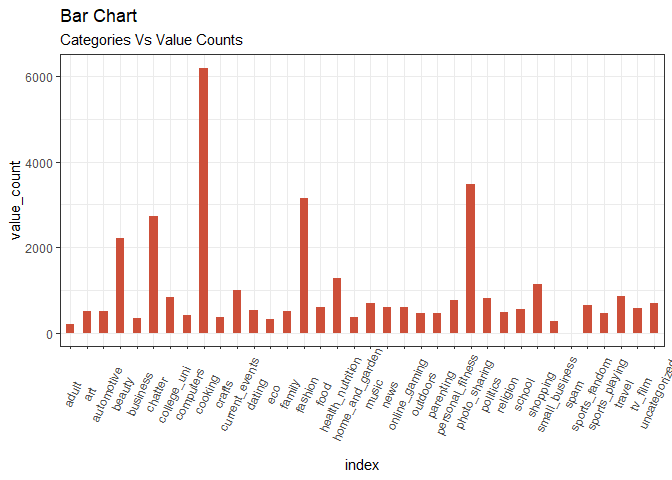
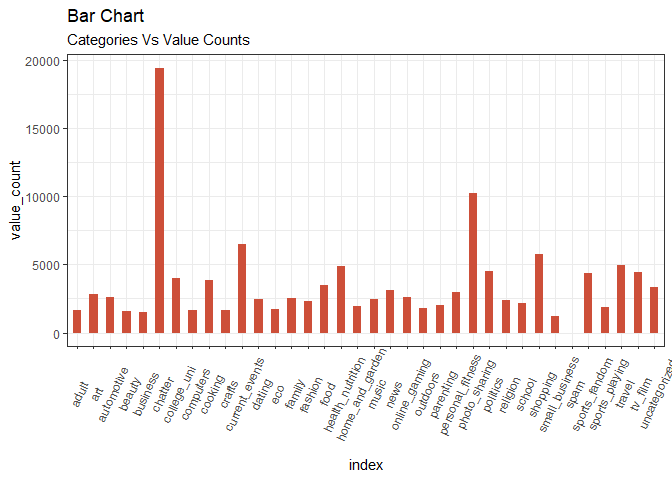
Add files via upload

diff --git a/Market Segmentation/Segmentation-Final.md b/Market Segmentation/Segmentation-Final.md
@@ -250,6 +250,8 @@ SSE_grid = foreach(k = k_grid, .combine='c') %do% {
     ## Warning: did not converge in 10 iterations
     
     ## Warning: did not converge in 10 iterations
+    
+    ## Warning: did not converge in 10 iterations
 
 ``` r
 plot(k_grid, SSE_grid)
@@ -266,151 +268,151 @@ clust1$center  # not super helpful
 ```
 
     ##    current_events      travel photo_sharing      tv_film sports_fandom
-    ## 1     -0.01031450 -0.15714384   -0.08421245 -0.145999378    -0.2017286
-    ## 2     -0.20281680 -0.21908597   -0.42320159 -0.222078934    -0.3229844
-    ## 3      0.36511293 -0.20566843    1.14465223 -0.124894450    -0.2057396
-    ## 4      0.07009668 -0.18841407   -0.20447614 -0.007645991     0.6677047
-    ## 5      0.27684711  0.28872703   -0.09071828 -0.116191009     0.1406567
-    ## 6      0.10842499  3.24061517   -0.11133845 -0.067917014    -0.2121407
-    ## 7      0.18517132 -0.06130126    1.24815395 -0.150639666    -0.2087792
-    ## 8     -0.08291475 -0.04385822   -0.02082668  0.097903233    -0.1261881
-    ## 9      0.10988087 -0.09813918   -0.08116542 -0.095409247     2.0782988
-    ## 10     0.30439005  0.22751673   -0.05831114  2.795550927    -0.1221757
+    ## 1      0.37082201 -0.20874717    1.16393164 -0.126745905    -0.2101211
+    ## 2     -0.08106613 -0.04267660   -0.01646228  0.095326209    -0.1266487
+    ## 3      0.30490339  0.22608904   -0.05886756  2.780408584    -0.1152744
+    ## 4      0.10695128  3.23569564   -0.11277465 -0.067845058    -0.2136210
+    ## 5      0.10988087 -0.09813918   -0.08116542 -0.095409247     2.0782988
+    ## 6      0.18073936 -0.06258883    1.25478537 -0.154102573    -0.2051438
+    ## 7      0.07009668 -0.18841407   -0.20447614 -0.007645991     0.6677047
+    ## 8     -0.20084867 -0.21888279   -0.42083617 -0.220995123    -0.3224679
+    ## 9     -0.01082130 -0.15671938   -0.08396781 -0.145869520    -0.2012404
+    ## 10     0.27684711  0.28872703   -0.09071828 -0.116191009     0.1406567
     ##       politics        food      family home_and_garden         music
-    ## 1  -0.19850173  0.44533501 -0.07921331      0.14309636  0.0007582097
-    ## 2  -0.30075489 -0.36324183 -0.30444967     -0.20310521 -0.2341819374
-    ## 3  -0.15331111 -0.30920044 -0.05048685      0.14284720  0.1581977664
-    ## 4   1.21986287 -0.16546991  0.23209424      0.15020726 -0.0868021246
-    ## 5   0.15052740  0.04049422 -0.05999555      0.23510191  0.0141826414
-    ## 6   3.09299191  0.15319335 -0.10178647      0.04861894 -0.0424032763
-    ## 7  -0.12821438 -0.20892445  0.03370569      0.14091353  0.5432022033
-    ## 8  -0.17701573 -0.09437659  0.19602068      0.06781279 -0.0463005729
-    ## 9  -0.22631717  1.84148800  1.51713078      0.16499274  0.0437575815
-    ## 10 -0.08944974  0.14221566 -0.12482059      0.32825144  1.0176851981
+    ## 1  -0.15514307 -0.31111498 -0.04676972      0.15320798  1.360905e-01
+    ## 2  -0.17563345 -0.09679282  0.20136205      0.06834696 -4.558890e-02
+    ## 3  -0.08990204  0.13949048 -0.12518758      0.32054648  1.038927e+00
+    ## 4   3.08819300  0.15371770 -0.10116116      0.04649105 -4.414151e-02
+    ## 5  -0.22631717  1.84148800  1.51713078      0.16499274  4.375758e-02
+    ## 6  -0.13049890 -0.20895488  0.03927668      0.14748087  5.407528e-01
+    ## 7   1.21986287 -0.16546991  0.23209424      0.15020726 -8.680212e-02
+    ## 8  -0.29967074 -0.36270666 -0.30518848     -0.20443565 -2.288449e-01
+    ## 9  -0.19899244  0.44590794 -0.08006987      0.14373238 -6.915049e-05
+    ## 10  0.15052740  0.04049422 -0.05999555      0.23510191  1.418264e-02
     ##             news online_gaming     shopping health_nutrition college_uni
-    ## 1  -0.0781263661   -0.11738951 -0.027278767       2.19145217 -0.21218216
-    ## 2  -0.3100432259   -0.23328166 -0.397012981      -0.31347078 -0.25996975
-    ## 3  -0.2773979296   -0.17257665  1.442102920      -0.28489533 -0.09732903
-    ## 4   2.6430813586   -0.12914740 -0.154114346      -0.25427982 -0.19204785
-    ## 5  -0.0006901999    0.08935906 -0.237822640       0.05086059  0.12732753
-    ## 6   1.1311937054   -0.17020420 -0.063773747      -0.16888521 -0.04535510
-    ## 7  -0.0725779728   -0.02302969  0.205576555      -0.05671458 -0.01848761
-    ## 8  -0.1954120402    3.56081422 -0.137155930      -0.18099492  3.26295699
-    ## 9  -0.1110972157   -0.07661410 -0.001255721      -0.14540284 -0.12639829
-    ## 10  0.0080771940   -0.16979952  0.063925744      -0.15340741  0.36432997
+    ## 1  -0.2788837583   -0.17112731  1.478696655      -0.28227853 -0.10742678
+    ## 2  -0.1933037537    3.57175617 -0.135180882      -0.18130040  3.27353844
+    ## 3   0.0096511100   -0.17003728  0.076937344      -0.15541216  0.37134035
+    ## 4   1.1263907669   -0.16889548 -0.064200463      -0.16939138 -0.04478930
+    ## 5  -0.1110972157   -0.07661410 -0.001255721      -0.14540284 -0.12639829
+    ## 6  -0.0735988923   -0.02314104  0.204719459      -0.05912092 -0.01813325
+    ## 7   2.6430813586   -0.12914740 -0.154114346      -0.25427982 -0.19204785
+    ## 8  -0.3098205759   -0.23238776 -0.397735514      -0.31397710 -0.25675200
+    ## 9  -0.0787475730   -0.11780607 -0.028207110       2.19022016 -0.21258648
+    ## 10 -0.0006901999    0.08935906 -0.237822640       0.05086059  0.12732753
     ##    sports_playing     cooking          eco   computers    business
-    ## 1     -0.01212209  0.40290837  0.537420439 -0.08330833  0.06827417
-    ## 2     -0.25562089 -0.33244674 -0.283326912 -0.25869537 -0.25645042
-    ## 3     -0.08643514 -0.23558604  0.333578270 -0.02849527  0.40892526
-    ## 4     -0.08834545 -0.24669524 -0.084837993 -0.19476736 -0.11210726
-    ## 5     -0.11129036 -0.05898219  0.447999475  0.29753290 -0.34600901
-    ## 6      0.03397021 -0.18726026  0.163839787  2.90575083  0.55149265
-    ## 7      0.19833094  2.77857498  0.005222658  0.06221115  0.21697157
-    ## 8      2.11055596 -0.12466299 -0.064571960 -0.08529154 -0.10718460
-    ## 9      0.11285195 -0.09481309  0.195459551  0.09365098  0.11721326
-    ## 10     0.11616623 -0.13723963  0.120424171 -0.14970821  0.34555811
-    ##       outdoors      crafts  automotive          art   religion
-    ## 1   1.69635263  0.07044317 -0.16476776 -0.072128442 -0.1684269
-    ## 2  -0.32308801 -0.29539261 -0.30859458 -0.236459267 -0.3030137
-    ## 3  -0.28857171  0.09507588  0.05646194 -0.217151726 -0.2604676
-    ## 4   0.30161324 -0.16891614  2.60214809 -0.169066894 -0.1870036
-    ## 5   0.29780310  0.21793373  0.12453564  0.331675372  0.1207018
-    ## 6  -0.03518560  0.20191288 -0.13186537 -0.162228781  0.1139277
-    ## 7   0.02445303  0.08551824  0.02444810  0.002304522 -0.1265627
-    ## 8  -0.14553424  0.03314862  0.05356771  0.265761654 -0.1872570
-    ## 9  -0.07004825  0.69680699  0.12238906 -0.014688654  2.2857040
-    ## 10 -0.08902099  0.76714571 -0.22498650  2.717078011  0.0167601
-    ##          beauty   parenting       dating      school personal_fitness
-    ## 1  -0.206933153 -0.09216199  0.206573832 -0.15717957       2.12768764
-    ## 2  -0.274471899 -0.32285252 -0.147878131 -0.31300180      -0.33077612
-    ## 3  -0.202887064 -0.19978108  0.179225961  0.04248506      -0.23251034
-    ## 4  -0.175314599  0.03062125 -0.012298445  0.01710054      -0.24096389
-    ## 5  -0.100701954  0.18658414 -0.009528244  0.09244824       0.12183236
-    ## 6  -0.177892858  0.01648978  0.342903897 -0.10166629      -0.14747810
-    ## 7   2.619561091 -0.06525900  0.066042833  0.18519238      -0.03513757
-    ## 8  -0.226461489 -0.14185987  0.011469008 -0.21013346      -0.18980414
-    ## 9   0.325836301  2.16613593  0.045405677  1.69230235      -0.09456893
-    ## 10  0.001768972 -0.18400910 -0.056588415 -0.02331020      -0.15364987
+    ## 1     -0.08134027 -0.23621096  0.339339112 -0.02765760  0.38398008
+    ## 2      2.11739791 -0.12373614 -0.064842621 -0.08270086 -0.10437622
+    ## 3      0.11551124 -0.13693759  0.124244298 -0.15058657  0.36352221
+    ## 4      0.03202883 -0.18755257  0.165163040  2.89840374  0.56042253
+    ## 5      0.11285195 -0.09481309  0.195459551  0.09365098  0.11721326
+    ## 6      0.19868032  2.76816671  0.006502437  0.06441720  0.22999239
+    ## 7     -0.08834545 -0.24669524 -0.084837993 -0.19476736 -0.11210726
+    ## 8     -0.25550756 -0.33128790 -0.282172786 -0.25815456 -0.25139072
+    ## 9     -0.01292797  0.40203877  0.535912931 -0.08389355  0.06742258
+    ## 10    -0.11129036 -0.05898219  0.447999475  0.29753290 -0.34600901
+    ##       outdoors      crafts  automotive          art    religion
+    ## 1  -0.29024423  0.08129551  0.06353701 -0.218600658 -0.25961406
+    ## 2  -0.14273994  0.02321121  0.05725025  0.268010799 -0.18947730
+    ## 3  -0.08702067  0.77799812 -0.22420093  2.688972381  0.01885619
+    ## 4  -0.03458032  0.20301368 -0.13320504 -0.163024723  0.11199530
+    ## 5  -0.07004825  0.69680699  0.12238906 -0.014688654  2.28570404
+    ## 6   0.02645310  0.08405787  0.02316114  0.002643756 -0.12534281
+    ## 7   0.30161324 -0.16891614  2.60214809 -0.169066894 -0.18700363
+    ## 8  -0.32374021 -0.29019382 -0.30836484 -0.235144913 -0.30359527
+    ## 9   1.69445205  0.06956351 -0.16532250 -0.072595434 -0.16762389
+    ## 10  0.29780310  0.21793373  0.12453564  0.331675372  0.12070179
+    ##           beauty   parenting        dating      school personal_fitness
+    ## 1  -0.2140298275 -0.20260784  0.1388467869  0.03815298      -0.23030751
+    ## 2  -0.2289601107 -0.13926299 -0.0003107033 -0.21708164      -0.18863321
+    ## 3  -0.0003285909 -0.18225289 -0.0563517401 -0.01959310      -0.15599948
+    ## 4  -0.1767662835  0.01844845  0.3613602805 -0.09371737      -0.14760381
+    ## 5   0.3258363015  2.16613593  0.0454056765  1.69230235      -0.09456893
+    ## 6   2.6208131254 -0.06367636  0.0776655646  0.18349938      -0.03715078
+    ## 7  -0.1753145995  0.03062125 -0.0122984449  0.01710054      -0.24096389
+    ## 8  -0.2717478133 -0.32252907 -0.1373392062 -0.31019111      -0.33106314
+    ## 9  -0.2073392847 -0.09198145  0.2065182556 -0.15779222       2.12686463
+    ## 10 -0.1007019535  0.18658414 -0.0095282441  0.09244824       0.12183236
     ##        fashion small_business        spam        adult
-    ## 1  -0.10449162    -0.11581904 -0.07768727  0.004532443
-    ## 2  -0.29308682    -0.22036324 -0.07768727 -0.011226241
-    ## 3  -0.08613703     0.25208745 -0.07768727 -0.020733000
-    ## 4  -0.21613941    -0.16017031 -0.07768727 -0.109326046
-    ## 5  -0.02044987     0.31428826 12.41886450  3.750222155
-    ## 6  -0.17270913     0.39729226 -0.07768727 -0.144522474
-    ## 7   2.67732938     0.15251440 -0.07768727 -0.022090055
-    ## 8  -0.05418228     0.11912436 -0.07768727 -0.013136802
-    ## 9   0.02913943     0.09397799 -0.07768727  0.003988664
-    ## 10 -0.01590149     0.80670810 -0.07768727 -0.045948354
+    ## 1  -0.09804505     0.22847023 -0.07768727 -0.022688821
+    ## 2  -0.05906495     0.11380675 -0.07768727 -0.011970936
+    ## 3  -0.01441204     0.83278058 -0.07768727 -0.047261963
+    ## 4  -0.16605484     0.39919745 -0.07768727 -0.144741875
+    ## 5   0.02913943     0.09397799 -0.07768727  0.003988664
+    ## 6   2.67744986     0.16427476 -0.07768727 -0.019128740
+    ## 7  -0.21613941    -0.16017031 -0.07768727 -0.109326046
+    ## 8  -0.28981854    -0.21624197 -0.07768727 -0.011146248
+    ## 9  -0.10504370    -0.11635574 -0.07768727  0.004939084
+    ## 10 -0.02044987     0.31428826 12.41886450  3.750222155
 
 ``` r
 clust1$center[1,]*sigma + mu
 ```
 
     ##   current_events           travel    photo_sharing          tv_film 
-    ##     1.513174e+00     1.225847e+00     2.466750e+00     8.281054e-01 
+    ##     1.996795e+00     1.107906e+00     5.876068e+00     8.600427e-01 
     ##    sports_fandom         politics             food           family 
-    ##     1.158093e+00     1.186951e+00     2.188206e+00     7.741531e-01 
+    ##     1.139957e+00     1.318376e+00     8.450855e-01     8.108974e-01 
     ##  home_and_garden            music             news    online_gaming 
-    ##     6.260979e-01     6.800502e-01     1.041405e+00     8.933501e-01 
+    ##     6.335470e-01     8.194444e-01     6.196581e-01     7.489316e-01 
     ##         shopping health_nutrition      college_uni   sports_playing 
-    ##     1.340025e+00     1.242033e+01     9.347553e-01     6.273526e-01 
+    ##     4.064103e+00     1.298077e+00     1.238248e+00     5.598291e-01 
     ##          cooking              eco        computers         business 
-    ##     3.380176e+00     9.259724e-01     5.508156e-01     4.705144e-01 
+    ##     1.188034e+00     7.735043e-01     6.164530e-01     6.891026e-01 
     ##         outdoors           crafts       automotive              art 
-    ##     2.834379e+00     5.734003e-01     6.047679e-01     6.072773e-01 
+    ##     4.316239e-01     5.822650e-01     9.166667e-01     3.685897e-01 
     ##         religion           beauty        parenting           dating 
-    ##     7.728984e-01     4.303639e-01     7.816813e-01     1.079046e+00 
+    ##     5.982906e-01     4.209402e-01     6.143162e-01     9.583333e-01 
     ##           school personal_fitness          fashion   small_business 
-    ##     5.809285e-01     6.579674e+00     8.055207e-01     2.647428e-01 
+    ##     8.130342e-01     9.081197e-01     8.173077e-01     4.775641e-01 
     ##             spam            adult 
-    ##    -4.423545e-17     4.115433e-01
+    ##     9.540979e-18     3.621795e-01
 
 ``` r
 clust1$center[2,]*sigma + mu
 ```
 
     ##   current_events           travel    photo_sharing          tv_film 
-    ##     1.268910e+00     1.084276e+00     1.540798e+00     7.019059e-01 
+    ##     1.423398e+00     1.487465e+00     2.651811e+00     1.228412e+00 
     ##    sports_fandom         politics             food           family 
-    ##     8.960691e-01     8.770101e-01     7.525313e-01     5.190590e-01 
+    ##     1.320334e+00     1.256267e+00     1.225627e+00     1.091922e+00 
     ##  home_and_garden            music             news    online_gaming 
-    ##     3.710542e-01     4.380584e-01     5.541989e-01     5.818940e-01 
+    ##     5.710306e-01     6.323120e-01     7.994429e-01     1.080780e+01 
     ##         shopping health_nutrition      college_uni   sports_playing 
-    ##     6.712329e-01     1.157832e+00     7.963073e-01     3.898154e-01 
+    ##     1.144847e+00     1.752089e+00     1.103343e+01     2.704735e+00 
     ##          cooking              eco        computers         business 
-    ##     8.579512e-01     2.942228e-01     3.439547e-01     2.456820e-01 
+    ##     1.573816e+00     4.623955e-01     5.515320e-01     3.509749e-01 
     ##         outdoors           crafts       automotive              art 
-    ##     3.918999e-01     2.745682e-01     4.082787e-01     3.394878e-01 
+    ##     6.100279e-01     5.348189e-01     9.080780e-01     1.161560e+00 
     ##         religion           beauty        parenting           dating 
-    ##     5.151876e-01     3.406790e-01     4.321024e-01     4.472901e-01 
+    ##     7.325905e-01     4.011142e-01     7.103064e-01     7.103064e-01 
     ##           school personal_fitness          fashion   small_business 
-    ##     3.957713e-01     6.664681e-01     4.606909e-01     2.001191e-01 
+    ##     5.097493e-01     1.008357e+00     8.885794e-01     4.066852e-01 
     ##             spam            adult 
-    ##    -2.888315e-16     3.829661e-01
+    ##     5.204170e-17     3.816156e-01
 
 ``` r
 clust1$center[4,]*sigma + mu
 ```
 
     ##   current_events           travel    photo_sharing          tv_film 
-    ##     1.615207e+00     1.154378e+00     2.138249e+00     1.057604e+00 
+    ##     1.661972e+00     8.980282e+00     2.388732e+00     9.577465e-01 
     ##    sports_fandom         politics             food           family 
-    ##     3.036866e+00     5.486175e+00     1.103687e+00     1.126728e+00 
+    ##     1.132394e+00     1.114930e+01     1.670423e+00     7.492958e-01 
     ##  home_and_garden            music             news    online_gaming 
-    ##     6.313364e-01     5.898618e-01     6.758065e+00     8.617512e-01 
+    ##     5.549296e-01     6.338028e-01     3.571831e+00     7.549296e-01 
     ##         shopping health_nutrition      college_uni   sports_playing 
-    ##     1.110599e+00     1.423963e+00     9.930876e-01     5.529954e-01 
+    ##     1.273239e+00     1.805634e+00     1.419718e+00     6.704225e-01 
     ##          cooking              eco        computers         business 
-    ##     1.152074e+00     4.470046e-01     4.193548e-01     3.456221e-01 
+    ##     1.354930e+00     6.394366e-01     4.067606e+00     8.112676e-01 
     ##         outdoors           crafts       automotive              art 
-    ##     1.147465e+00     3.778802e-01     4.384793e+00     4.493088e-01 
+    ##     7.408451e-01     6.816901e-01     6.478873e-01     4.591549e-01 
     ##         religion           beauty        parenting           dating 
-    ##     7.373272e-01     4.723502e-01     9.677419e-01     6.889401e-01 
+    ##     1.309859e+00     4.704225e-01     9.492958e-01     1.354930e+00 
     ##           school personal_fitness          fashion   small_business 
-    ##     7.880184e-01     8.824885e-01     6.013825e-01     2.373272e-01 
+    ##     6.563380e-01     1.107042e+00     6.929577e-01     5.830986e-01 
     ##             spam            adult 
-    ##     5.117434e-17     2.050691e-01
+    ##     5.117434e-17     1.408451e-01
 
 To find which products are in which cluster, we run the following code
 
@@ -450,9 +452,8 @@ for (i in 1:10) {
 # Draw plot
   print(ggplot(df ,aes(x=index, y=value_count)) + 
           geom_bar(stat="identity", width=.5, fill="tomato3") +
-          labs(title="Ordered Bar Chart",
-               subtitle="Make Vs Avg. Mileage", 
-               caption="source: mpg") + 
+          labs(title="Bar Chart",
+               subtitle="Categories Vs Value Counts") + 
           theme(axis.text.x = element_text(angle=65, vjust=0.6)))
 }
 ```
@@ -475,8 +476,6 @@ CH_grid = foreach(k = k_grid, .combine='c') %do% {
 }
 ```
 
-    ## Warning: did not converge in 10 iterations
-    
     ## Warning: did not converge in 10 iterations
     
     ## Warning: did not converge in 10 iterations
@@ -526,9 +525,8 @@ for (i in 1:7) {
 # Draw plot
   print(ggplot(df ,aes(x=index, y=value_count)) + 
           geom_bar(stat="identity", width=.5, fill="tomato3") +
-          labs(title="Ordered Bar Chart",
-               subtitle="Make Vs Avg. Mileage", 
-               caption="source: mpg") + 
+          labs(title="Bar Chart",
+               subtitle="Categories Vs Value Counts") + 
           theme(axis.text.x = element_text(angle=65, vjust=0.6)))
 }
 ```
@@ -577,62 +575,62 @@ our clusters seem to be separated in an clear way.
 clust1$withinss
 ```
 
-    ##  [1] 20358.004 40093.832 21522.156 10561.062  2332.419 11609.237 15995.409
-    ##  [8] 10248.214 24125.889 15056.725
+    ##  [1] 20608.472 10174.478 15245.829 11696.124 24125.889 16093.751 10561.062
+    ##  [8] 40694.800 20369.809  2332.419
 
 ``` r
 clust2$withinss
 ```
 
-    ## [1] 27075.633 24169.153 74147.403 15699.808 27698.931 19903.166  2332.419
+    ## [1] 74138.916 27698.931 24287.063 15699.808 19522.920 27346.394  2332.419
 
 ``` r
 sum(clust1$withinss)
 ```
 
-    ## [1] 171902.9
+    ## [1] 171902.6
 
 ``` r
 sum(clust2$withinss)
 ```
 
-    ## [1] 191026.5
+    ## [1] 191026.4
 
 ``` r
 clust1$betweenss
 ```
 
-    ## [1] 96051.05
+    ## [1] 96051.37
 
 ``` r
 clust2$betweenss
 ```
 
-    ## [1] 76927.49
+    ## [1] 76927.55
 
 ``` r
 mean(clust1$withinss)
 ```
 
-    ## [1] 17190.29
+    ## [1] 17190.26
 
 ``` r
 mean(clust2$withinss)
 ```
 
-    ## [1] 27289.5
+    ## [1] 27289.49
 
 ``` r
 mean(clust1$betweenss)
 ```
 
-    ## [1] 96051.05
+    ## [1] 96051.37
 
 ``` r
 mean(clust2$betweenss)
 ```
 
-    ## [1] 76927.49
+    ## [1] 76927.55
 
 PCR We also tried PCR to look at the different kinds of users in our
 market. We will look at the top 15 variables. In PC space, most of the
@@ -737,11 +735,13 @@ Photo-sharing and shopping are most related to chatter. As expected with
 spam, the adult category is the most correlated. With uncategorized,
 dating, cooking, tv-film and beauty are most correlated.
 
-In the general correlation heatmap, we can see that categories like
-sports are highly correlated to heath and fitness. Since our company is
-a large consumer brand company, correlation between categories such as
-photo-sharing and shopping can be extremely useful to them. For example,
-closely related tweets in categories such as photo sharing and shopping
-leads me to believe that such customers would ideally follow bloggers
-who post pictures of everything on social media. The company can use
-bloggers as one of their marketing techniques.
+In the general correlation heatmap, the highest correlated categories
+which have a correlation approximately equal to 1 are
+(health\_nutrition, personal\_fitness) and (college\_uni, online
+gaming). Since our company is a large consumer brand company,
+correlation between categories such as photo-sharing and shopping can be
+extremely useful to them. For example, closely related tweets in
+categories such as photo sharing and shopping leads me to believe that
+such customers would ideally follow bloggers who post pictures of
+everything on social media. The company can use bloggers as one of their
+marketing techniques.
